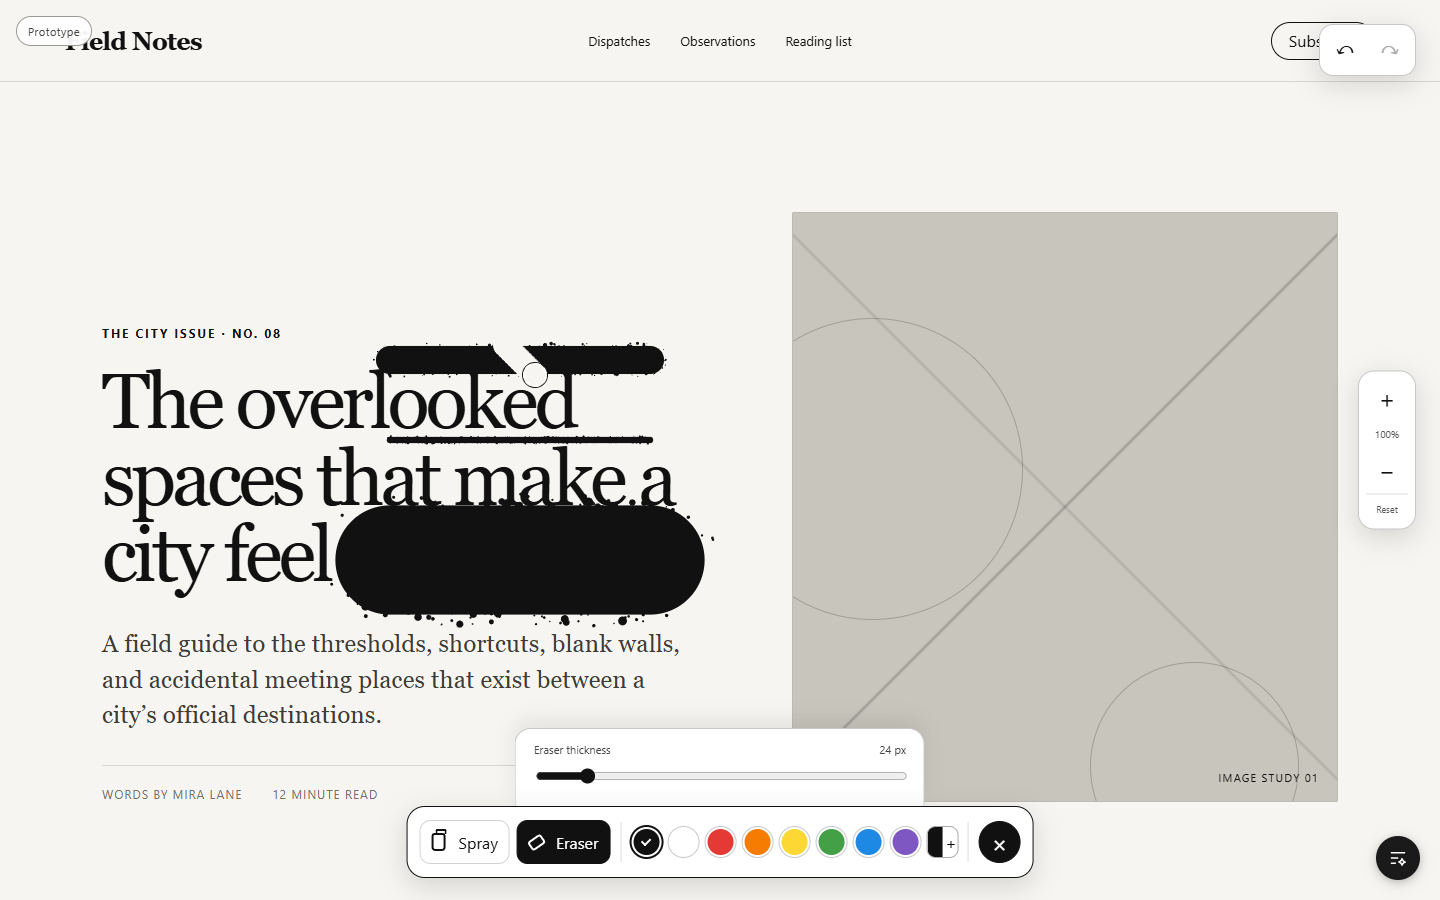
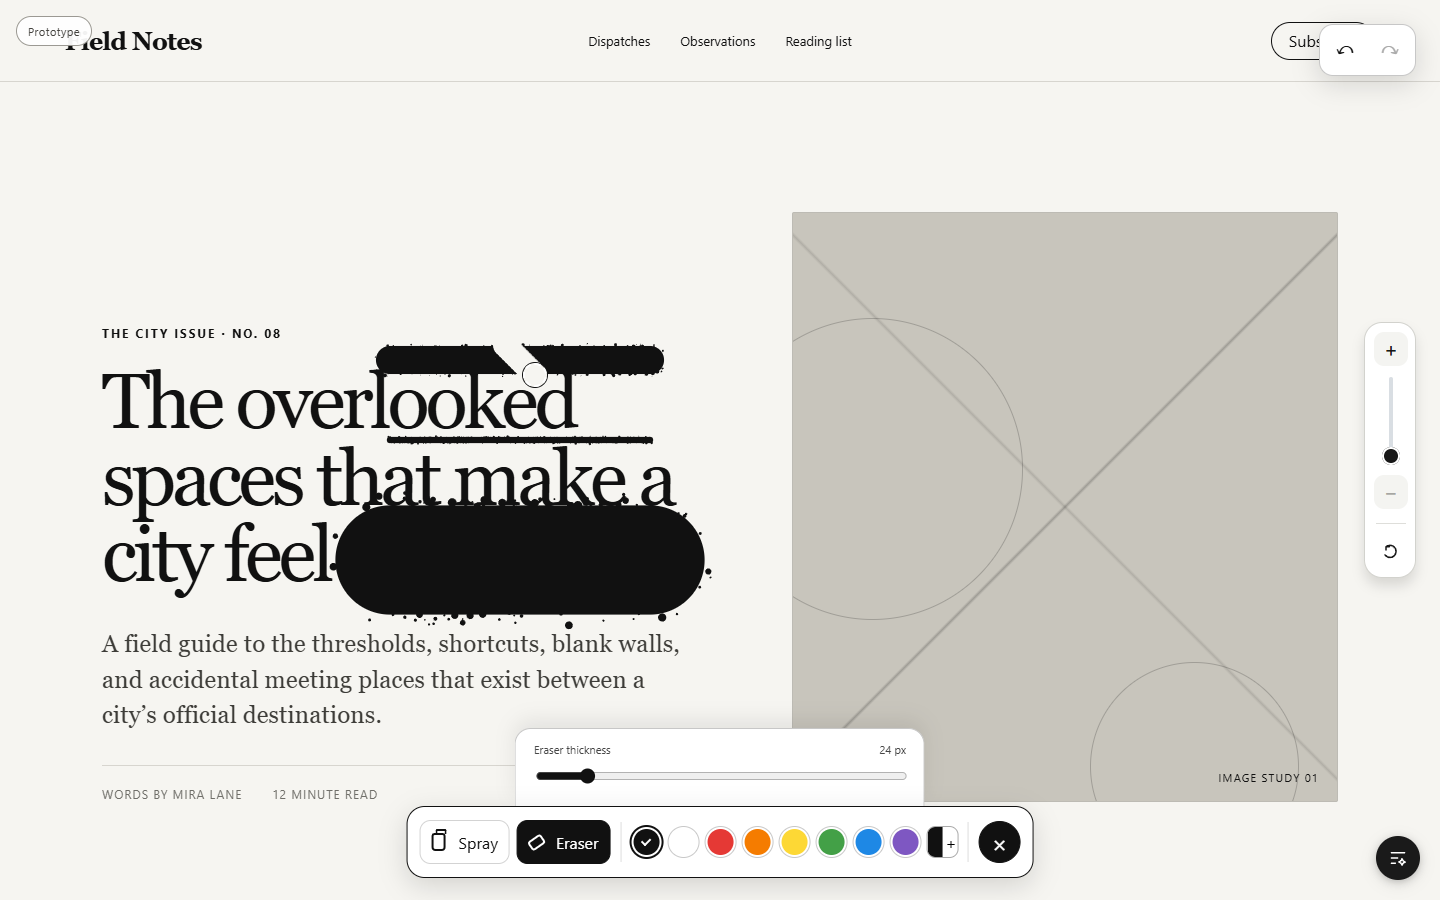
Save current changes

diff --git a/app.js b/app.js
@@ -2,12 +2,14 @@
 
 const STORAGE_PREFIX = "web-graffiti:page:";
 const CREATOR_KEY = "web-graffiti:anonymous-creator";
-const MIN_ZOOM = 0.5;
-const MAX_ZOOM = 2;
+const MIN_ZOOM = 1;
+const MAX_ZOOM = 4;
+const ZOOM_STEP = (MAX_ZOOM - MIN_ZOOM) * 0.05;
 const HISTORY_LIMIT = 24;
 
 const dom = {
   body: document.body,
+  shell: document.querySelector("#surface-shell"),
   surface: document.querySelector("#site-surface"),
   canvas: document.querySelector("#graffiti-canvas"),
   launch: document.querySelector("#graffiti-launch"),
@@ -72,6 +74,9 @@ const state = {
   spraySize: 36,
   eraserSize: 48,
   zoom: 1,
+  panX: 0,
+  panY: 0,
+  browsingScrollY: 0,
   spaceHeld: false,
   cursorClientX: 0,
   cursorClientY: 0,
@@ -378,6 +383,12 @@ function setMode(enabled) {
   if (enabled === state.mode) return;
   if (!enabled) finishActiveAction();
 
+  if (enabled) {
+    state.browsingScrollY = window.scrollY;
+    state.panX = 0;
+    state.panY = -state.browsingScrollY;
+  }
+
   state.mode = enabled;
   dom.body.classList.toggle("graffiti-mode", enabled);
   dom.launch.hidden = enabled;
@@ -391,11 +402,15 @@ function setMode(enabled) {
   updateHistoryButtons();
 
   if (enabled) {
+    applyViewportTransform();
     updateToolInterface();
     showToast("Graffiti Mode is active. Website controls are locked.");
   } else {
+    const returnScrollY = Math.max(0, -state.panY / state.zoom);
     state.spaceHeld = false;
     dom.body.classList.remove("is-panning");
+    dom.surface.style.transform = "";
+    window.scrollTo(0, returnScrollY);
     showToast("Graffiti Mode closed. Website controls are active.");
   }
 }
@@ -620,6 +635,14 @@ function beginPan(event) {
   dom.cursor.classList.remove("is-visible");
 }
 
+function moveViewportPan(event) {
+  state.panX += event.clientX - activeAction.clientX;
+  state.panY += event.clientY - activeAction.clientY;
+  activeAction.clientX = event.clientX;
+  activeAction.clientY = event.clientY;
+  applyViewportTransform();
+}
+
 function finalizeSpray(action) {
   if (action.samples.length === 0) return;
   const anchorId = chooseCommonAnchor(action.anchorChains);
@@ -665,11 +688,11 @@ function finishActiveAction() {
 }
 
 function onCanvasPointerDown(event) {
-  if (!state.mode || event.button !== 0) return;
+  if (!state.mode || (event.button !== 0 && event.button !== 1)) return;
   event.preventDefault();
   dom.canvas.setPointerCapture(event.pointerId);
 
-  if (state.spaceHeld) {
+  if (state.spaceHeld || event.button === 1) {
     beginPan(event);
   } else if (state.tool === "eraser") {
     beginEraser(event);
@@ -686,9 +709,7 @@ function onCanvasPointerMove(event) {
   if (!activeAction || activeAction.pointerId !== event.pointerId) return;
 
   if (activeAction.type === "pan") {
-    window.scrollBy(activeAction.clientX - event.clientX, activeAction.clientY - event.clientY);
-    activeAction.clientX = event.clientX;
-    activeAction.clientY = event.clientY;
+    moveViewportPan(event);
     return;
   }
 
@@ -712,9 +733,30 @@ function onCanvasPointerUp(event) {
   finishActiveAction();
 }
 
+function onViewportPointerDown(event) {
+  const wantsPan = event.button === 1 || (event.button === 0 && state.spaceHeld);
+  if (!state.mode || event.target !== dom.shell || !wantsPan) return;
+  event.preventDefault();
+  dom.shell.setPointerCapture(event.pointerId);
+  beginPan(event);
+}
+
+function onViewportPointerMove(event) {
+  if (!activeAction || activeAction.type !== "pan" || activeAction.pointerId !== event.pointerId) return;
+  if (!dom.shell.hasPointerCapture(event.pointerId)) return;
+  moveViewportPan(event);
+}
+
+function onViewportPointerUp(event) {
+  if (!activeAction || activeAction.type !== "pan" || activeAction.pointerId !== event.pointerId) return;
+  if (!dom.shell.hasPointerCapture(event.pointerId)) return;
+  dom.shell.releasePointerCapture(event.pointerId);
+  finishActiveAction();
+}
+
 function syncZoomControl() {
-  const percentage = Math.round(state.zoom * 100);
   const normalized = (state.zoom - MIN_ZOOM) / (MAX_ZOOM - MIN_ZOOM);
+  const percentage = Math.round(normalized * 100);
   dom.zoomSlider.value = String(percentage);
   dom.zoomSlider.setAttribute("aria-valuetext", percentage + "%");
   dom.zoomSlider.style.setProperty("--zoom-fill", normalized * 100 + "%");
@@ -733,6 +775,34 @@ function showZoomFeedback() {
   }, 900);
 }
 
+function clampViewportPan() {
+  if (!state.mode) return;
+
+  const scaledWidth = dom.surface.scrollWidth * state.zoom;
+  const scaledHeight = dom.surface.scrollHeight * state.zoom;
+  const viewportWidth = window.innerWidth;
+  const viewportHeight = window.innerHeight;
+
+  if (scaledWidth <= viewportWidth) {
+    state.panX = (viewportWidth - scaledWidth) / 2;
+  } else {
+    state.panX = Math.max(viewportWidth - scaledWidth, Math.min(0, state.panX));
+  }
+
+  if (scaledHeight <= viewportHeight) {
+    state.panY = (viewportHeight - scaledHeight) / 2;
+  } else {
+    state.panY = Math.max(viewportHeight - scaledHeight, Math.min(0, state.panY));
+  }
+}
+
+function applyViewportTransform() {
+  if (!state.mode) return;
+  clampViewportPan();
+  dom.surface.style.transform = `translate3d(${state.panX}px, ${state.panY}px, 0) scale(${state.zoom})`;
+  updateCursor();
+}
+
 function setZoom(nextZoom, clientX = window.innerWidth / 2, clientY = window.innerHeight / 2) {
   const next = Math.max(MIN_ZOOM, Math.min(MAX_ZOOM, Math.round(nextZoom * 20) / 20));
   if (next === state.zoom) {
@@ -742,22 +812,18 @@ function setZoom(nextZoom, clientX = window.innerWidth / 2, clientY = window.inn
   }
 
   const oldZoom = state.zoom;
-  const oldRect = dom.surface.getBoundingClientRect();
-  const localX = (clientX - oldRect.left) / oldZoom;
-  const localY = (clientY - oldRect.top) / oldZoom;
+  const localX = (clientX - state.panX) / oldZoom;
+  const localY = (clientY - state.panY) / oldZoom;
   state.zoom = next;
-  dom.surface.style.zoom = String(next);
+  state.panX = clientX - localX * next;
+  state.panY = clientY - localY * next;
+  applyViewportTransform();
   syncZoomControl();
   showZoomFeedback();
-  updateCursor();
+}
 
-  window.requestAnimationFrame(() => {
-    const newRect = dom.surface.getBoundingClientRect();
-    const deltaX = newRect.left + localX * next - clientX;
-    const deltaY = newRect.top + localY * next - clientY;
-    window.scrollBy(deltaX, deltaY);
-    resizeCanvas();
-  });
+function percentageToZoom(percentage) {
+  return MIN_ZOOM + (Math.max(0, Math.min(100, percentage)) / 100) * (MAX_ZOOM - MIN_ZOOM);
 }
 
 function clampChannel(value) {
@@ -998,16 +1064,17 @@ dom.hexInput.addEventListener("input", () => {
 
 dom.undo.addEventListener("click", undo);
 dom.redo.addEventListener("click", redo);
-dom.zoomIn.addEventListener("click", () => setZoom(state.zoom + 0.1));
-dom.zoomOut.addEventListener("click", () => setZoom(state.zoom - 0.1));
-dom.zoomReset.addEventListener("click", () => setZoom(1));
-dom.zoomSlider.addEventListener("input", (event) => setZoom(Number(event.currentTarget.value) / 100));
+dom.zoomIn.addEventListener("click", () => setZoom(state.zoom + ZOOM_STEP));
+dom.zoomOut.addEventListener("click", () => setZoom(state.zoom - ZOOM_STEP));
+dom.zoomReset.addEventListener("click", () => setZoom(MIN_ZOOM));
+dom.zoomSlider.addEventListener("input", (event) => setZoom(percentageToZoom(Number(event.currentTarget.value))));
 dom.zoomSlider.addEventListener("pointerdown", showZoomFeedback);
 
 dom.canvas.addEventListener("pointerdown", onCanvasPointerDown);
 dom.canvas.addEventListener("pointermove", onCanvasPointerMove);
 dom.canvas.addEventListener("pointerup", onCanvasPointerUp);
 dom.canvas.addEventListener("pointercancel", onCanvasPointerUp);
+dom.canvas.addEventListener("auxclick", (event) => event.preventDefault());
 dom.canvas.addEventListener("pointerenter", (event) => {
   state.cursorInside = true;
   state.cursorClientX = event.clientX;
@@ -1020,11 +1087,32 @@ dom.canvas.addEventListener("pointerleave", () => {
     updateCursor();
   }
 });
-dom.canvas.addEventListener("wheel", (event) => {
-  if (!state.mode || !event.ctrlKey) return;
+window.addEventListener("wheel", (event) => {
+  if (!state.mode) return;
   event.preventDefault();
-  setZoom(state.zoom + (event.deltaY < 0 ? 0.1 : -0.1), event.clientX, event.clientY);
+
+  if (event.ctrlKey || event.metaKey) {
+    setZoom(state.zoom + (event.deltaY < 0 ? ZOOM_STEP : -ZOOM_STEP), event.clientX, event.clientY);
+    return;
+  }
+
+  const unit = event.deltaMode === WheelEvent.DOM_DELTA_LINE
+    ? 16
+    : event.deltaMode === WheelEvent.DOM_DELTA_PAGE
+      ? window.innerHeight
+      : 1;
+  const horizontalDelta = event.deltaX || (event.shiftKey ? event.deltaY : 0);
+  const verticalDelta = event.shiftKey && !event.deltaX ? 0 : event.deltaY;
+  state.panX -= horizontalDelta * unit;
+  state.panY -= verticalDelta * unit;
+  applyViewportTransform();
 }, { passive: false });
+
+dom.shell.addEventListener("pointerdown", onViewportPointerDown);
+dom.shell.addEventListener("pointermove", onViewportPointerMove);
+dom.shell.addEventListener("pointerup", onViewportPointerUp);
+dom.shell.addEventListener("pointercancel", onViewportPointerUp);
+dom.shell.addEventListener("auxclick", (event) => event.preventDefault());
 
 dom.prototypeToggle.addEventListener("click", () => {
   const open = dom.prototypePanel.hidden;
@@ -1051,6 +1139,24 @@ window.addEventListener("keydown", (event) => {
   }
 
   if (!state.mode || editingText) return;
+
+  if ((event.ctrlKey || event.metaKey) && ["+", "=", "-", "0"].includes(event.key)) {
+    event.preventDefault();
+    if (event.key === "0") setZoom(MIN_ZOOM);
+    else setZoom(state.zoom + (event.key === "-" ? -ZOOM_STEP : ZOOM_STEP));
+    return;
+  }
+
+  if (["ArrowUp", "ArrowDown", "ArrowLeft", "ArrowRight"].includes(event.key)) {
+    event.preventDefault();
+    const panStep = event.shiftKey ? 160 : 64;
+    if (event.key === "ArrowUp") state.panY += panStep;
+    else if (event.key === "ArrowDown") state.panY -= panStep;
+    else if (event.key === "ArrowLeft") state.panX += panStep;
+    else state.panX -= panStep;
+    applyViewportTransform();
+    return;
+  }
 
   if (event.code === "Space") {
     state.spaceHeld = true;
@@ -1093,14 +1199,16 @@ window.addEventListener("hashchange", () => {
 });
 
 window.addEventListener("beforeunload", persistPieces);
-window.addEventListener("resize", resizeCanvas);
+window.addEventListener("resize", () => {
+  resizeCanvas();
+  applyViewportTransform();
+});
 
 if (window.ResizeObserver) {
   const surfaceObserver = new ResizeObserver(resizeCanvas);
   surfaceObserver.observe(dom.surface);
 }
 
-dom.surface.style.zoom = "1";
 syncZoomControl();
 dom.previousColor.style.background = state.color;
 applyCustomColor(state.customColor);

diff --git a/index.html b/index.html
@@ -175,8 +175,8 @@
       <div class="zoom-controls" aria-label="Zoom controls">
         <button id="zoom-in" class="zoom-step" type="button" aria-label="Zoom in" title="Zoom in">+</button>
         <div id="zoom-slider-wrap" class="zoom-slider-wrap">
-          <input id="zoom-slider" class="zoom-slider" type="range" min="50" max="200" step="5" value="100" aria-label="Zoom level" />
-          <output id="zoom-value" class="zoom-value" for="zoom-slider" aria-live="polite">100%</output>
+          <input id="zoom-slider" class="zoom-slider" type="range" min="0" max="100" step="5" value="0" aria-label="Canvas zoom level" />
+          <output id="zoom-value" class="zoom-value" for="zoom-slider" aria-live="polite">0%</output>
         </div>
         <button id="zoom-out" class="zoom-step" type="button" aria-label="Zoom out" title="Zoom out">−</button>
         <span class="zoom-divider" aria-hidden="true"></span>

diff --git a/styles.css b/styles.css
@@ -58,6 +58,27 @@ input:focus-visible,
   transform-origin: 0 0;
 }
 
+body.graffiti-mode {
+  overflow: hidden;
+}
+
+body.graffiti-mode #surface-shell {
+  position: fixed;
+  z-index: 1;
+  inset: 0;
+  min-height: 0;
+  overflow: hidden;
+  background: var(--paper);
+  overscroll-behavior: none;
+}
+
+body.graffiti-mode #site-surface {
+  position: absolute;
+  top: 0;
+  left: 0;
+  will-change: transform;
+}
+
 .site-header {
   position: relative;
   z-index: 1;

diff --git a/README.md b/README.md
@@ -25,7 +25,7 @@ If Node.js is installed globally, `pnpm dev` works as an alternative. The PowerS
 - Open **Graffiti mode** from the bottom-center button.
 - Draw with the mouse; choose Spray or Eraser from the bottom Palette.
 - Adjust the active tool with the continuous thickness slider.
-- Drag the right-side zoom slider, use its +/− controls, or use `Ctrl`/`Cmd` + wheel to zoom around the cursor. Use the circular-arrow icon to return to 100%, and hold Space while dragging to pan.
+- Drag the right-side zoom slider, use its +/− controls, or use `Ctrl`/`Cmd` + wheel to zoom the drawing canvas around the cursor. The editor scale runs from 0% (the page's full-size baseline) to 100% (4× magnification), and cannot shrink below 0%. Scroll vertically with the wheel, horizontally with a trackpad or `Shift` + wheel, and pan freely with Space-drag or middle-mouse drag. The circular-arrow icon returns to 0%.
 - Undo with `Ctrl`/`Cmd` + `Z`; redo with `Ctrl`/`Cmd` + `Shift` + `Z` or `Ctrl` + `Y`.
 - Close Graffiti Mode with the `×` at the end of the Palette or `Esc`.
 - Open the upper-left **Prototype** badge to reset locally stored graffiti.
